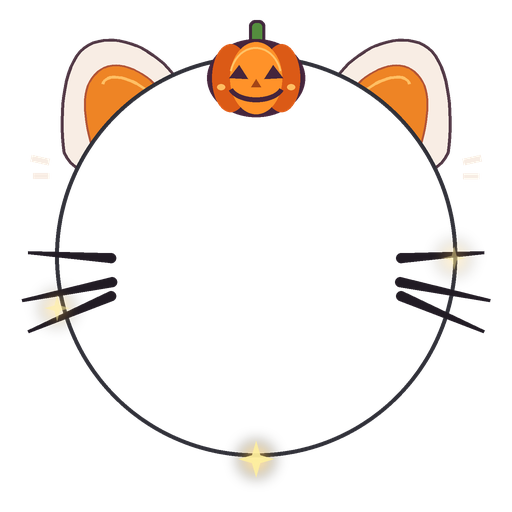
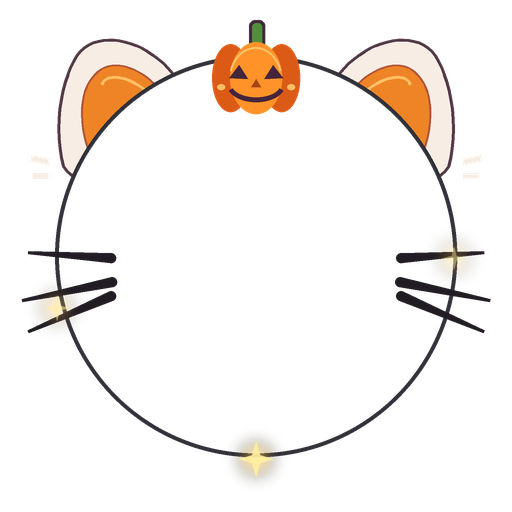
fix : 고양이 장식 배경과 귀 접합 및 볼 그림자 보정

diff --git a/scripts/generate-halloween-cat-frame.py b/scripts/generate-halloween-cat-frame.py
@@ -51,16 +51,20 @@ def scale_points(points: list[Point]) -> list[tuple[int, int]]:
     return [(round(x * DRAW_SCALE), round(y * DRAW_SCALE)) for x, y in points]
 
 
-def rotate(points: list[Point], angle_degrees: float, pivot: Point) -> list[Point]:
-    angle = math.radians(angle_degrees)
-    sine, cosine = math.sin(angle), math.cos(angle)
-    return [
-        (
-            pivot[0] + (x - pivot[0]) * cosine - (y - pivot[1]) * sine,
-            pivot[1] + (x - pivot[0]) * sine + (y - pivot[1]) * cosine,
+def bend_ear(points: list[Point], angle_degrees: float, pivot: Point) -> list[Point]:
+    bent = []
+    for x, y in points:
+        # Keep the base fixed against the avatar rim while the ear tip perks up.
+        tip_weight = smoothstep((176 - y) / 100)
+        angle = math.radians(angle_degrees * tip_weight)
+        sine, cosine = math.sin(angle), math.cos(angle)
+        bent.append(
+            (
+                pivot[0] + (x - pivot[0]) * cosine - (y - pivot[1]) * sine,
+                pivot[1] + (x - pivot[0]) * sine + (y - pivot[1]) * cosine,
+            )
         )
-        for x, y in points
-    ]
+    return bent
 
 
 def mirror(points: list[Point]) -> list[Point]:
@@ -93,7 +97,7 @@ def draw_ear(layer: Image.Image, angle: float, right: bool) -> None:
     for index, shape in enumerate(shapes):
         if right:
             shape = mirror(shape)
-        shape = rotate(shape, -angle if right else angle, pivot)
+        shape = bend_ear(shape, -angle if right else angle, pivot)
         draw.polygon(
             scale_points(shape),
             fill=("#F8EDE4" if index == 0 else "#EE8425"),
@@ -105,7 +109,7 @@ def draw_ear(layer: Image.Image, angle: float, right: bool) -> None:
     highlight = cubic((92, 93), (93, 82), (115, 80), (138, 94))
     if right:
         highlight = mirror(highlight)
-    highlight = rotate(highlight, -angle if right else angle, pivot)
+    highlight = bend_ear(highlight, -angle if right else angle, pivot)
     draw.line(scale_points(highlight), fill="#FFBF64", width=3 * DRAW_SCALE, joint="curve")
 
 
@@ -152,8 +156,8 @@ def draw_blush(layer: Image.Image, progress: float) -> None:
         return
 
     size = layer.size
-    glow = Image.new("RGBA", size)
-    glow_draw = ImageDraw.Draw(glow)
+    glow_mask = Image.new("L", size)
+    glow_draw = ImageDraw.Draw(glow_mask)
     details = Image.new("RGBA", size)
     detail_draw = ImageDraw.Draw(details)
 
@@ -166,7 +170,7 @@ def draw_blush(layer: Image.Image, progress: float) -> None:
                 round((center_x + 52) * DRAW_SCALE),
                 round((center_y + 38) * DRAW_SCALE),
             ),
-            fill=(244, 82, 169, round(115 * opacity)),
+            fill=round(115 * opacity),
         )
         detail_draw.ellipse(
             (
@@ -189,7 +193,9 @@ def draw_blush(layer: Image.Image, progress: float) -> None:
                 width=3 * DRAW_SCALE,
             )
 
-    softened = glow.filter(ImageFilter.GaussianBlur(9 * DRAW_SCALE))
+    # Blur only alpha: blurring transparent black RGB produced a gray fringe.
+    softened = Image.new("RGBA", size, (244, 82, 169))
+    softened.putalpha(glow_mask.filter(ImageFilter.GaussianBlur(9 * DRAW_SCALE)))
     layer.alpha_composite(softened)
     layer.alpha_composite(details)
 
@@ -214,7 +220,6 @@ def draw_pumpkin(layer: Image.Image, progress: float) -> None:
     draw.rounded_rectangle(
         box(252, 27, 262, 51), radius=4 * DRAW_SCALE, fill="#548D3E"
     )
-    draw.ellipse(box(207, 43, 305, 121), fill="#45253C")
     draw.ellipse(box(212, 48, 249, 116), fill="#DB5A16")
     draw.ellipse(box(263, 48, 300, 116), fill="#DB5A16")
     draw.ellipse(box(230, 46, 282, 118), fill="#FF9229")
